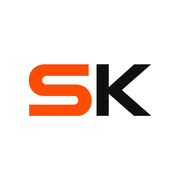
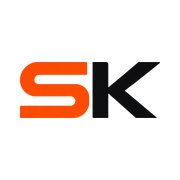
Sekme simgesi sezkar.com ile aynı
- sezkar.com'daki simge dosyalarının aynısı: favicon.ico, açık ve koyu tema
  simgeleri (açık temada siyah K, koyu temada beyaz K), apple-touch-icon
- /favicon.ico kök adresten sunuluyor

Claude-Session: https://claude.ai/code/session_01FAxKLAZ9XtpcraQ6RYtGtG

Changed region(s): [[0.1111, 0.3333, 0.6389, 0.6667], [0.6667, 0.3333, 0.8889, 0.6667], [0.6389, 0.3611, 0.75, 0.4444]]

diff --git a/app/templates/base.html b/app/templates/base.html
@@ -14,8 +14,10 @@
 <link rel="preload" href="/static/fonts/archivo-latin-wdth-normal.woff2" as="font" type="font/woff2" crossorigin>
 <link rel="stylesheet" href="/static/css/app.css?v={{ asset_v }}">
 <link rel="manifest" href="/manifest.webmanifest">
-<link rel="icon" href="/static/brand/favicon.png" type="image/png">
-<link rel="apple-touch-icon" href="/static/brand/apple-touch-icon.png">
+{# Sekme simgesi sezkar.com ile aynı dosyalar: açık temada siyah K, koyu temada beyaz K #}
+<link rel="icon" href="/static/brand/icon-acik-tema.png" type="image/png" sizes="96x96" media="(prefers-color-scheme: light)">
+<link rel="icon" href="/static/brand/icon-koyu-tema.png" type="image/png" sizes="96x96" media="(prefers-color-scheme: dark)">
+<link rel="apple-touch-icon" href="/static/brand/apple-touch-icon.png" sizes="180x180">
 </head>
 <body>
 {% block body %}

diff --git a/app/templates/offline.html b/app/templates/offline.html
@@ -5,6 +5,7 @@
 <meta name="viewport" content="width=device-width, initial-scale=1">
 <meta name="color-scheme" content="light dark">
 <title>Bağlantı yok · {{ app_name }}</title>
+<link rel="icon" href="/favicon.ico">
 <style>
   body { margin: 0; min-height: 100dvh; display: grid; place-items: center; padding: 24px; font-family: system-ui, -apple-system, "Segoe UI", sans-serif; background: #f6f6f7; color: #0e0f11; }
   main { max-width: 26rem; text-align: center; }

diff --git a/tests/test_app.py b/tests/test_app.py
@@ -361,7 +361,8 @@ def test_install_files_are_public_and_valid(client, db):
     assert sw.status_code == 200 and "javascript" in sw.headers["content-type"] and "/cevrimdisi" in sw.text
     off = client.get("/cevrimdisi")
     assert off.status_code == 200 and "Bağlantı yok" in off.text
-    for path in ["/static/brand/apple-touch-icon.png", "/static/brand/favicon.png", "/static/js/theme.js",
+    for path in ["/static/brand/apple-touch-icon.png", "/static/brand/icon-acik-tema.png",
+                 "/static/brand/icon-koyu-tema.png", "/favicon.ico", "/static/js/theme.js",
                  "/static/fonts/archivo-latin-wdth-normal.woff2", "/static/fonts/archivo-latin-ext-wdth-normal.woff2"]:
         assert client.get(path).status_code == 200, path
 

diff --git a/app/main.py b/app/main.py
@@ -115,6 +115,15 @@ def service_worker():
     )
 
 
+@app.get("/favicon.ico", include_in_schema=False)
+def favicon():
+    # Tarayıcıların kendiliğinden istediği adres; sezkar.com'daki dosyanın aynısı
+    return FileResponse(
+        APP_DIR / "static" / "brand" / "favicon.ico", media_type="image/x-icon",
+        headers={"Cache-Control": "public, max-age=86400"},
+    )
+
+
 @app.get("/cevrimdisi", include_in_schema=False)
 def offline(request: Request):
     return render(request, "offline.html")
